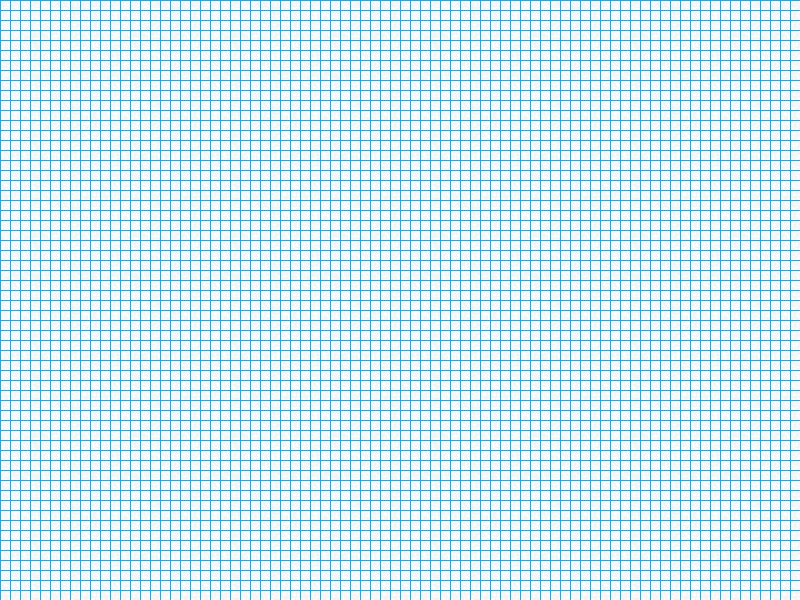
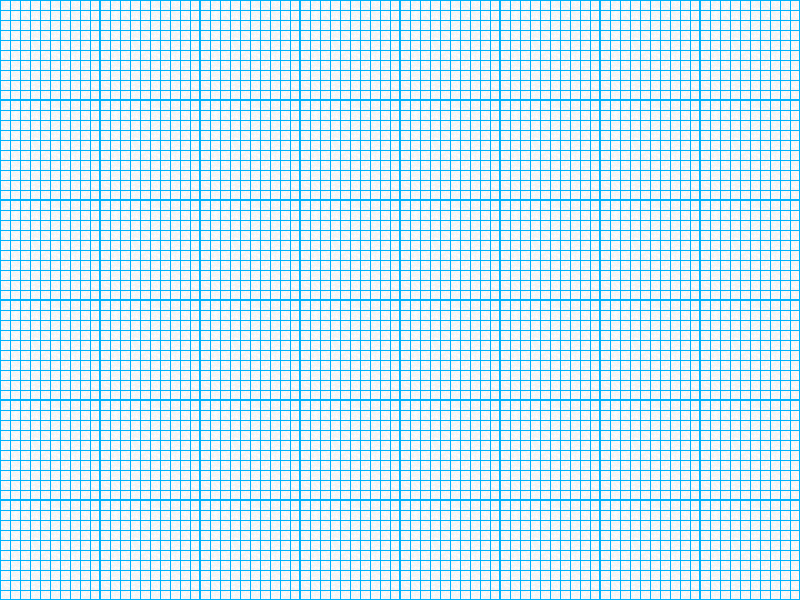
Fix Graph paper, add in some new assets

Changed region(s): [[0.0, 0.99, 1.0, 1.0]]

diff --git a/core/src/lando/systems/ld45/backgrounds/GraphPaperBackground.java b/core/src/lando/systems/ld45/backgrounds/GraphPaperBackground.java
@@ -35,7 +35,7 @@ public class GraphPaperBackground extends Background {
 
     @Override
     public void render(SpriteBatch batch) {
-        batch.setColor(.7f, .7f, .7f, 1f);
+        batch.setColor(.8f, .8f, .8f, 1f);
         batch.draw(gameScreen.assets.gridPaper, 0, 0, gameScreen.worldCamera.viewportWidth, gameScreen.worldCamera.viewportHeight);
         batch.setColor(1f, 1f, 1f, .2f);
         for (int i = 0; i < equationPositions.size; i++){
